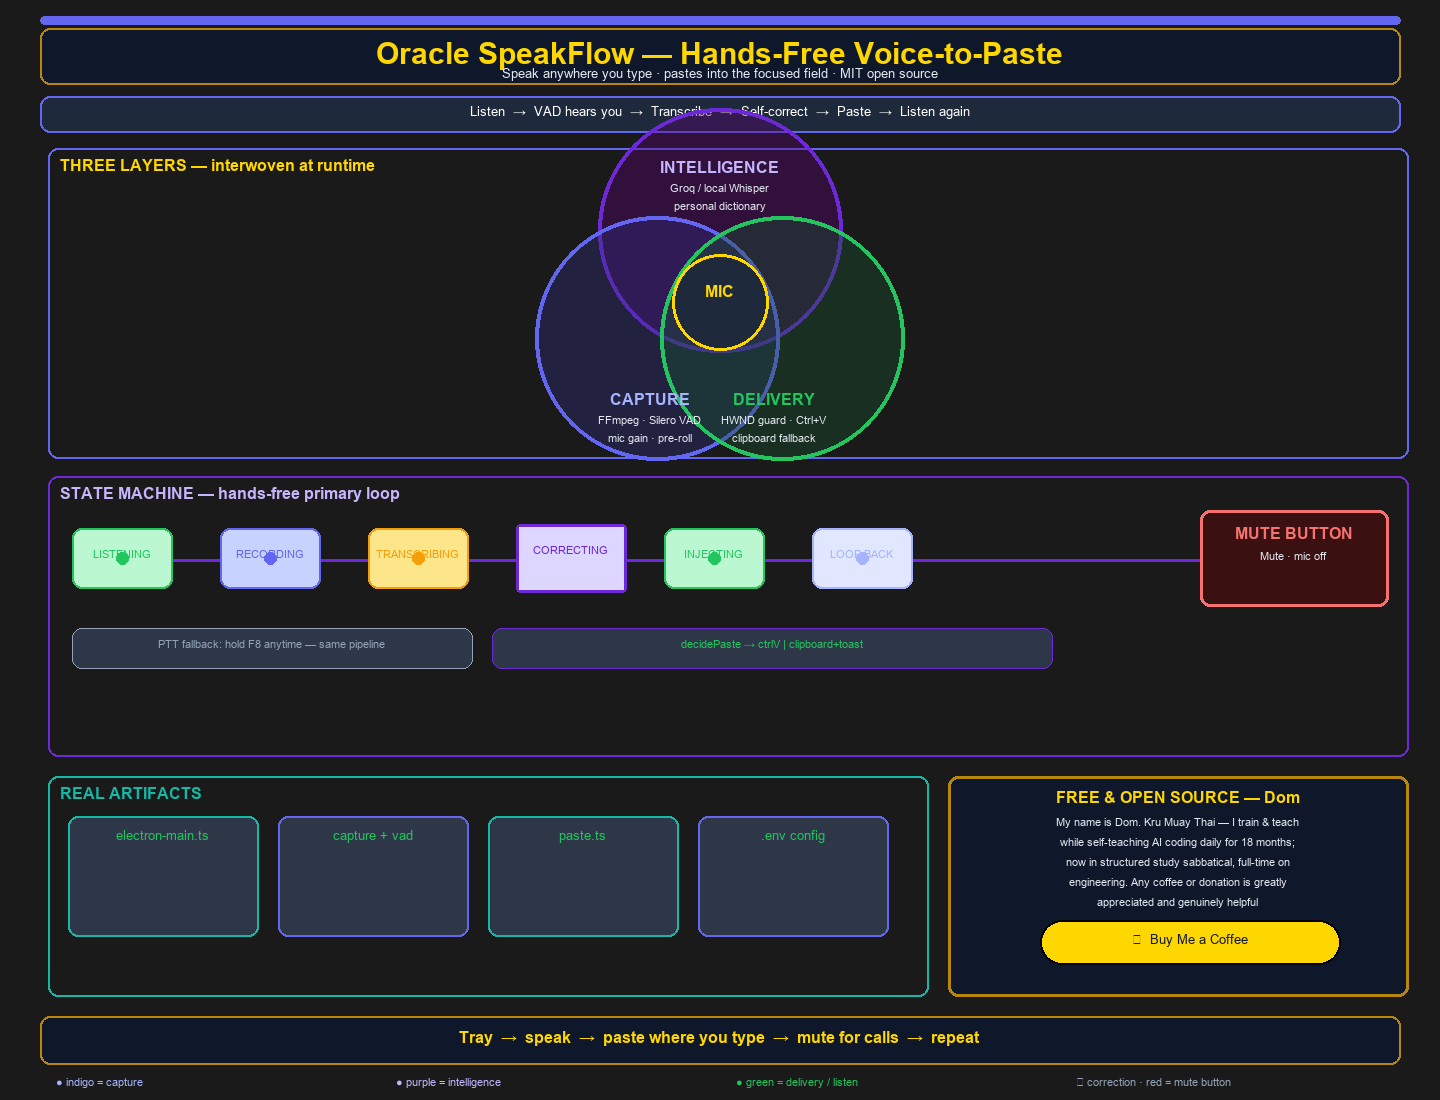
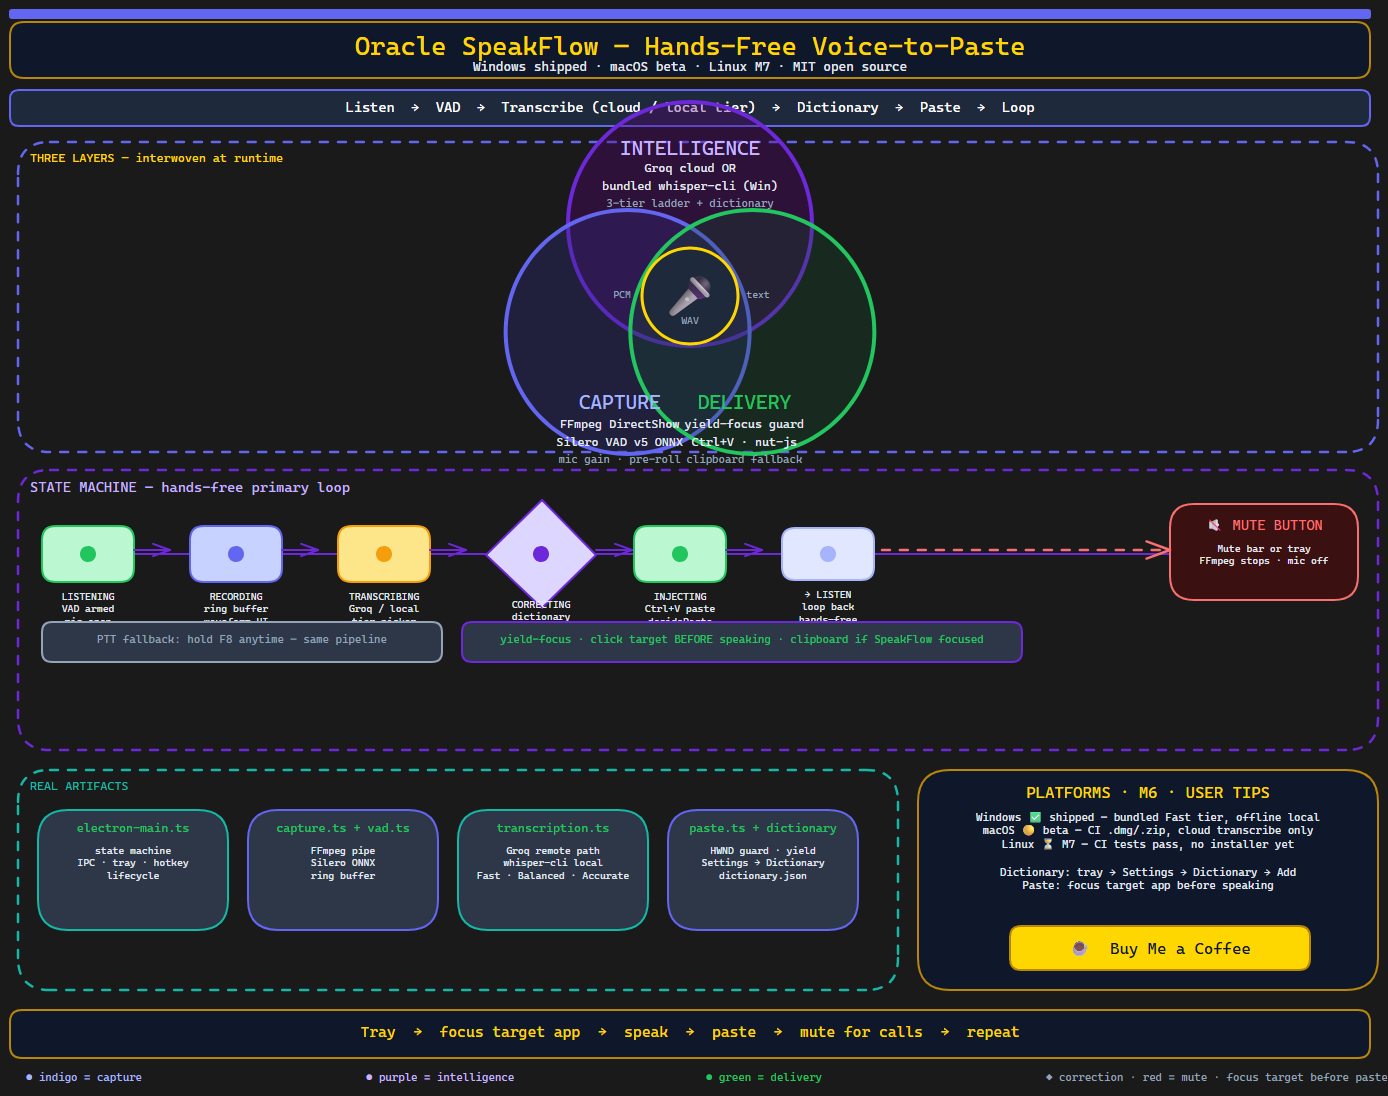
docs(m6): add user guide, refresh workflow diagram for M6 accuracy

diff --git a/docs/diagrams/render_workflow_local.html b/docs/diagrams/render_workflow_local.html
@@ -1,0 +1,33 @@
+<!DOCTYPE html>
+<html>
+<head>
+  <meta charset="utf-8" />
+  <style>
+    * { margin: 0; padding: 0; box-sizing: border-box; }
+    body { background: #1a1a1a; overflow: hidden; }
+    #root { display: inline-block; }
+    #root svg { display: block; }
+  </style>
+</head>
+<body>
+  <div id="root"></div>
+  <script type="module">
+    import { exportToSvg } from "https://cdn.jsdelivr.net/npm/@excalidraw/excalidraw/+esm";
+
+    window.renderDiagram = async function(jsonData) {
+      const data = typeof jsonData === "string" ? JSON.parse(jsonData) : jsonData;
+      const svg = await exportToSvg({
+        elements: data.elements || [],
+        appState: { ...(data.appState || {}), exportBackground: true },
+        files: data.files || {},
+      });
+      const root = document.getElementById("root");
+      root.innerHTML = "";
+      root.appendChild(svg);
+      window.__renderComplete = true;
+      return { success: true };
+    };
+    window.__moduleReady = true;
+  </script>
+</body>
+</html>

diff --git a/docs/diagrams/patch_workflow_m6.py b/docs/diagrams/patch_workflow_m6.py
@@ -1,0 +1,55 @@
+#!/usr/bin/env python3
+"""Patch Oracle SpeakFlow workflow diagram for M6 accuracy (text updates)."""
+from __future__ import annotations
+
+import json
+from pathlib import Path
+
+ROOT = Path(__file__).parent
+DIAGRAM = ROOT / "Oracle_SpeakFlow_Workflow_Indigo.excalidraw"
+
+TEXT_BY_ID: dict[str, str] = {
+    "title_sub": "Windows shipped · macOS beta · Linux M7 · MIT open source",
+    "l1_txt": "Listen  →  VAD  →  Transcribe (cloud / local tier)  →  Dictionary  →  Paste  →  Loop",
+    "int_b1": "Groq cloud OR",
+    "int_b2": "bundled whisper-cli (Win)",
+    "int_b3": "3-tier ladder + dictionary",
+    "del_b1": "yield-focus guard",
+    "del_b2": "Ctrl+V · nut-js",
+    "del_b3": "clipboard fallback",
+    "st_t2": "TRANSCRIBING\nGroq / local\ntier picker",
+    "st_t3": "CORRECTING\ndictionary\nspoken → written",
+    "st_ev_t": "yield-focus · click target BEFORE speaking · clipboard if SpeakFlow focused",
+    "ev_t2": "transcription.ts",
+    "ev_d2": "Groq remote path\nwhisper-cli local\nFast · Balanced · Accurate",
+    "ev_t3": "paste.ts + dictionary",
+    "ev_d3": "HWND guard · yield\nSettings → Dictionary\ndictionary.json",
+    "dev_ttl": "PLATFORMS · M6 · USER TIPS",
+    "dev_body": (
+        "Windows ✅ shipped — bundled Fast tier, offline local\n"
+        "macOS 🟡 beta — CI .dmg/.zip, cloud transcribe only\n"
+        "Linux ⏳ M7 — CI tests pass, no installer yet\n\n"
+        "Dictionary: tray → Settings → Dictionary → Add\n"
+        "Paste: focus target app before speaking"
+    ),
+    "footer_txt": "Tray  →  focus target app  →  speak  →  paste  →  mute for calls  →  repeat",
+    "leg_3": "◆ correction · red = mute · focus target before paste",
+}
+
+
+def patch() -> None:
+    data = json.loads(DIAGRAM.read_text(encoding="utf-8"))
+    updated = 0
+    for el in data["elements"]:
+        eid = el.get("id")
+        if eid in TEXT_BY_ID and el.get("type") == "text":
+            text = TEXT_BY_ID[eid]
+            el["text"] = text
+            el["originalText"] = text
+            updated += 1
+    DIAGRAM.write_text(json.dumps(data, indent=2) + "\n", encoding="utf-8")
+    print(f"Patched {DIAGRAM.name} ({updated}/{len(TEXT_BY_ID)} text updates)")
+
+
+if __name__ == "__main__":
+    patch()

diff --git a/README.md b/README.md
@@ -42,6 +42,90 @@ Any assistance — buying me a coffee or a donation — is greatly appreciated a
 
 > **Honest scope:** Windows is the full product today. macOS is a **proof build** (launch + cloud transcribe), not full parity. Linux packaging is the next milestone.
 
+## User guide
+
+For **Windows installer** or **macOS beta** testers — no coding required.
+
+### Install
+
+| Platform | How |
+|----------|-----|
+| **Windows** | Run `Oracle SpeakFlow Setup *.exe` from `dist-installer/` (or ask your builder for the installer file). |
+| **macOS beta** | Download the `.zip` artifact from a **Mac Package** CI run. Unzip → right-click **Oracle SpeakFlow.app** → **Open** (Gatekeeper may block on first launch). |
+
+SpeakFlow runs from the **system tray**. Click the tray icon to open the panel.
+
+### First-run setup (Groq API key)
+
+Required for **cloud mode** (default). Required on **macOS beta** (local Whisper is not bundled on Mac yet).
+
+1. Click the **tray icon** → **Settings** (top-right of the panel).
+2. Open the **Account** tab.
+3. Enter your Groq API key → save.
+4. Get a free key at https://console.groq.com/
+
+Your key is stored locally in `%APPDATA%\oracle-speakflow\.env` (Windows) — never in the repo.
+
+Click **Save** at the bottom of Settings when you change Voice or Engine tabs. The **Dictionary** tab saves each entry automatically when you click **Add**.
+
+### Daily use
+
+1. Click the **tray icon** to open SpeakFlow (you can leave it open or close it — listening continues from the tray).
+2. Click into the **text field** where you want dictation (Notepad, browser, IDE, chat, email, etc.).
+3. **Speak naturally** (hands-free — VAD detects start/stop) **or** hold **F8** → speak → release.
+4. Corrected text is **pasted into the focused app**.
+5. Click the **mute bar** (below the status area) before calls or when you need privacy.
+
+**Important — paste tip:** SpeakFlow pastes into **whatever app already has focus**. If the **SpeakFlow window** is focused when you finish speaking, text may **not** paste into your editor — it goes to the **clipboard** with a toast instead. **Click your target app first**, then speak.
+
+**Alt-tab safety:** If you switch apps mid-utterance, text goes to the **clipboard** — never the wrong window. Press Ctrl+V where you want it.
+
+### Personal dictionary (fix words Whisper gets wrong)
+
+Use this for names, commands, and phrases you say often.
+
+1. Tray icon → **Settings** → **Dictionary** tab.
+2. **Spoken** — what Whisper tends to hear (e.g. `npm run type check`).
+3. **Written** — what you want pasted (e.g. `npm run typecheck`).
+4. **Match mode:**
+   - **Phrase** — replaces the spoken text anywhere it appears in the transcript (best for multi-word commands).
+   - **Whole word** — only replaces when the spoken text is a complete word (best for names like `TypeScript` vs `typescript`).
+5. Click **Add** — saves immediately.
+6. Use the **checkbox** to temporarily disable an entry; **✕** to delete.
+7. **Export JSON** / **Import JSON** — backup or move your dictionary between machines.
+
+Dictionary runs **after** transcription, **before** paste. Entries are stored in `%APPDATA%\oracle-speakflow\dictionary.json` and survive app upgrades.
+
+### Engine: cloud vs local (Windows)
+
+| Mode | When to use |
+|------|-------------|
+| **Cloud (Groq)** | Default. Fast, low latency. Needs internet + API key. |
+| **Local (Whisper)** | Offline. Bundled on the **Windows installer** — no manual `whisper-cli` download. |
+
+**Switch to local (Windows installer):**
+
+1. Settings → **Engine** tab.
+2. Select **Local (Whisper)**.
+3. Pick a **model tier:**
+   - **Fast** — bundled with the installer (~78 MB). Works offline out of the box.
+   - **Balanced** / **Accurate** — click **Download** in the tier picker (one-time, SHA-verified).
+4. Click **Save** at the bottom of Settings.
+5. Focus your target app → speak as usual.
+
+**macOS beta:** use **Cloud (Groq)** only for now. Local Whisper is not bundled on Mac (M7).
+
+### Voice settings (optional)
+
+Settings → **Voice** tab:
+
+- **Hands-free** vs **Push-to-talk (F8)**
+- VAD sensitivity sliders (if hands-free cuts off too early or too late)
+- **Terminal paste mode** — uses Shift+Insert in terminals instead of Ctrl+V
+- Hotkey editor (default **F8**)
+
+Click **Save** after changes.
+
 ## Current release status
 
 | Milestone | Status | What you get |
@@ -144,12 +228,16 @@ Equivalent manual steps: `npm run build && npm run build:ui && npm run start:ele
 
 **Alt-tab safety:** Stay in your target window while speaking. If you switch apps mid-utterance, text goes to the **clipboard** with a toast — never the wrong window. Press Ctrl+V where you want it.
 
-### Local mode
+### Local mode (developers — from source)
+
+If you run from `git clone` / `npm run start:app` (not the Windows installer):
 
 1. Settings → **Engine** → **Local (Whisper)**.
-2. **Download Model** (first time).
-3. Place **`whisper-cli.exe`** in `resources/bin/` (not downloaded by the app).
-4. Use hands-free or F8 as usual.
+2. **Fast tier** — bundled when you run `npm run package`; for dev, place `whisper-cli.exe` and `ggml-tiny.en.bin` in `resources/bin/` (see `docs/DESIGN/`).
+3. Larger tiers — **Download** in the tier picker (Settings → Engine).
+4. Click **Save** → focus target app → speak.
+
+**Windows installer users:** skip the manual `resources/bin/` step — engine + Fast model are already bundled.
 
 ### Windows installer
 
@@ -250,8 +338,10 @@ See `docs/DESIGN/MILESTONE_3_PRD.md`.
 |---------|-------------|
 | UI looks old / no waveform | `npm run start:app` after `git pull`; kill stale `electron.exe` |
 | “Sometimes works, sometimes not” | One instance only (tray → Quit); check `.env` for API key |
-| Paste goes to wrong window | Focus target field before speaking; alt-tab → clipboard fallback |
-| Local mode fails | Download model in Settings; add `whisper-cli.exe` to `resources/bin/` |
+| Paste goes to wrong window | Focus target field **before** speaking; alt-tab → clipboard fallback |
+| Nothing pastes when SpeakFlow window is focused | Click your editor/chat first — paste targets the **focused** app, not SpeakFlow |
+| Local mode fails (installer) | Settings → Engine → Local; ensure **Fast** tier shows available; click **Save** |
+| Local mode fails (dev clone) | Add `whisper-cli.exe` + model to `resources/bin/` or use **Download** for tiers |
 | Old installed `.exe` shows stale UI | Uninstall `%LOCALAPPDATA%\Programs\Oracle SpeakFlow\`; use dev launch |
 
 ## Roadmap

diff --git a/docs/diagrams/Oracle_SpeakFlow_Workflow.md b/docs/diagrams/Oracle_SpeakFlow_Workflow.md
@@ -4,6 +4,13 @@
 
 **Palette:** [color-palette.md](./color-palette.md)
 
+**Regenerate PNG after editing `.excalidraw`:**
+
+```bash
+python docs/diagrams/patch_workflow_m6.py   # only if re-applying M6 text map
+node docs/diagrams/export_workflow_png.mjs
+```
+
 ---
 
 ## Legend
@@ -11,8 +18,8 @@
 | Color | Meaning |
 |-------|---------|
 | Indigo | Capture layer — FFmpeg, Silero VAD, mic gain |
-| Purple | Intelligence — Groq / local Whisper, dictionary correction |
-| Green | Delivery — HWND guard, Ctrl+V paste, clipboard fallback |
+| Purple | Intelligence — Groq / local Whisper, tier ladder, dictionary correction |
+| Green | Delivery — yield-focus guard, Ctrl+V paste, clipboard fallback |
 | Red square | Mute button — mic device closed |
 | Square cards | State machine steps |
 
@@ -24,9 +31,9 @@ Three **equal** circles arranged in a triangle — each centre is the same dista
 
 | Position | Layer | Role |
 |----------|-------|------|
-| Top | **INTELLIGENCE** | Groq / local Whisper, personal dictionary |
+| Top | **INTELLIGENCE** | Groq cloud or bundled whisper-cli (Windows), 3-tier ladder, personal dictionary |
 | Lower left | **CAPTURE** | FFmpeg DirectShow, Silero VAD, mic gain |
-| Lower right | **DELIVERY** | HWND guard, Ctrl+V, clipboard fallback |
+| Lower right | **DELIVERY** | Yield-focus guard, Ctrl+V, clipboard fallback |
 
 Each utterance flows through all three in one pipeline pass.
 
@@ -38,20 +45,32 @@ Each utterance flows through all three in one pipeline pass.
 |-------|----------------|
 | **LISTENING** | Hands-free armed; VAD watching; mic open |
 | **RECORDING** | Speech detected; ring buffer active |
-| **TRANSCRIBING** | Audio sent to Whisper |
-| **CORRECTING** | Personal dictionary pass (diamond) |
-| **INJECTING** | Paste into focused text field |
+| **TRANSCRIBING** | Groq cloud or local whisper-cli; tier picker (Fast / Balanced / Accurate) |
+| **CORRECTING** | Personal dictionary pass (spoken → written) |
+| **INJECTING** | Paste into focused text field (yield-focus; clipboard if SpeakFlow focused) |
 | **→ LISTEN** | Loop back (hands-free primary) |
 
 **Mute button:** Mute bar or tray → FFmpeg stops, mic released (OS indicator dark).
 
 **PTT fallback:** Hold F8 anytime — same pipeline, keyed start/stop instead of VAD.
 
+**Paste tip (M6):** User must **focus the target app before speaking**. If SpeakFlow's own window is focused, text goes to clipboard — not the wrong window.
+
+---
+
+## Platforms (M6)
+
+| Platform | Status |
+|----------|--------|
+| **Windows** | Shipped — bundled Fast tier, offline local |
+| **macOS** | Beta — CI `.dmg`/`.zip`, cloud transcribe only |
+| **Linux** | M7 — CI tests only, no installer yet |
+
 ---
 
 ## Eye path
 
-Title → L1 summary strip → triangle Venn → state timeline → evidence cards → developer card + Buy Me a Coffee → footer loop → legend.
+Title → L1 summary strip → triangle Venn → state timeline → evidence cards → platform/user-tips card → footer loop → legend.
 
 ---
 

diff --git a/docs/diagrams/README.md b/docs/diagrams/README.md
@@ -12,6 +12,14 @@ Publication-grade architecture poster (indigo tech dark branding).
 
 Indigo uses an **equilateral triangle Venn** — three equal circles interwoven at a shared hub.
 
+**Regenerate PNG** after editing the `.excalidraw` source:
+
+```bash
+node docs/diagrams/export_workflow_png.mjs
+```
+
+M6 text patches (optional re-apply): `python docs/diagrams/patch_workflow_m6.py`
+
 ## Palette
 
 See [color-palette.md](./color-palette.md).
